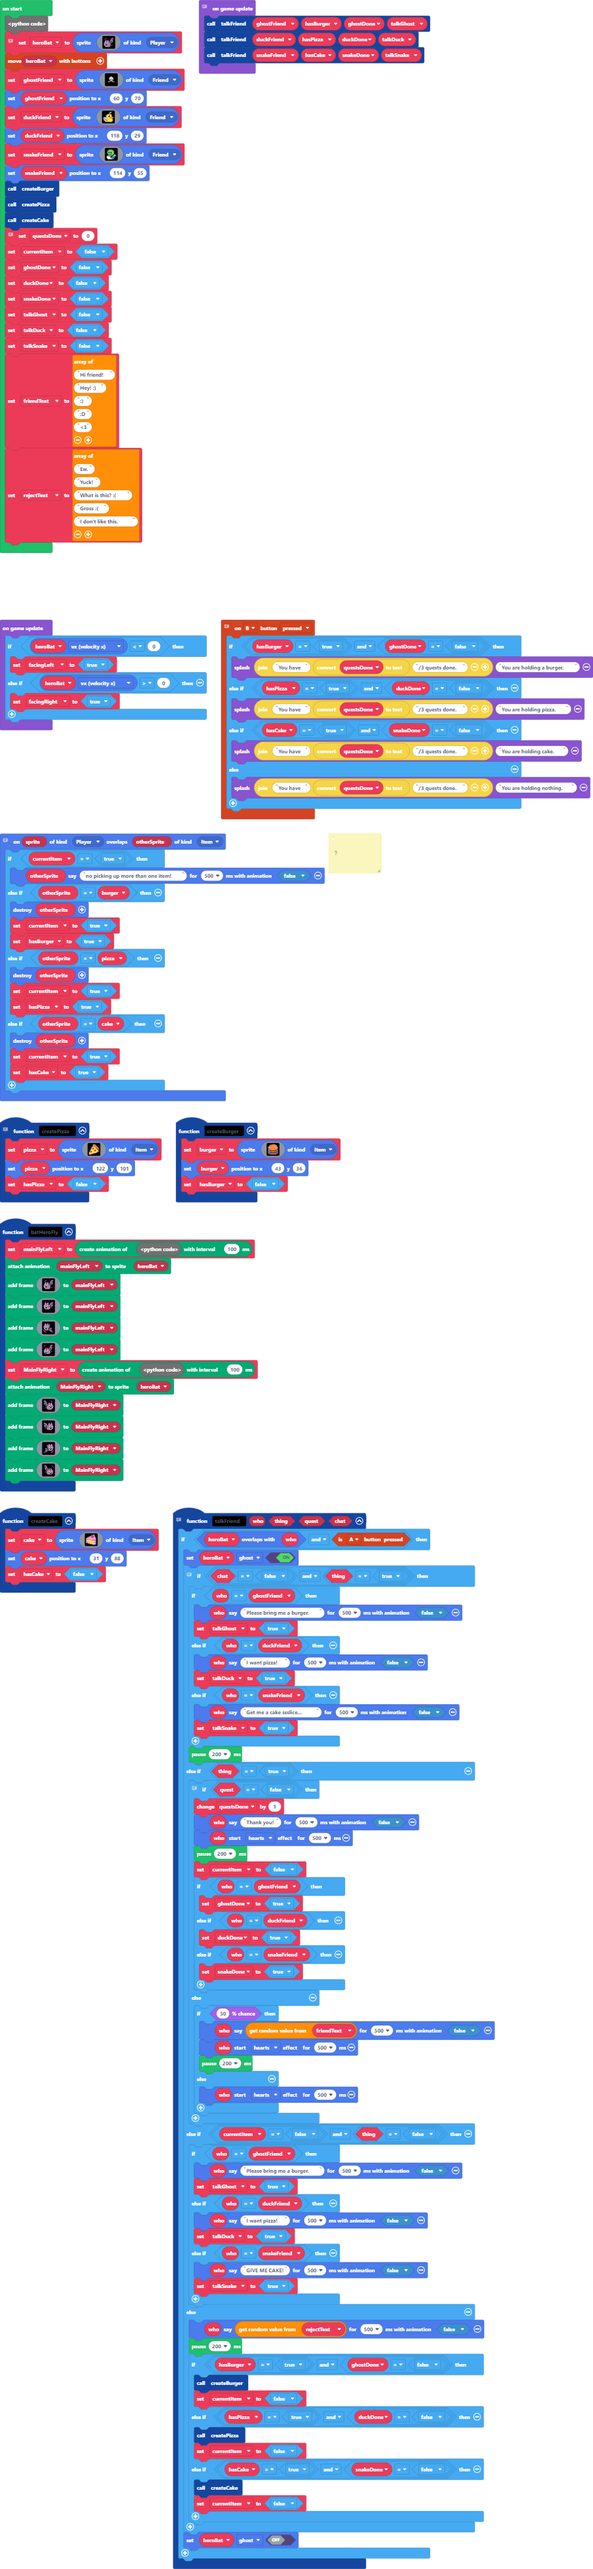
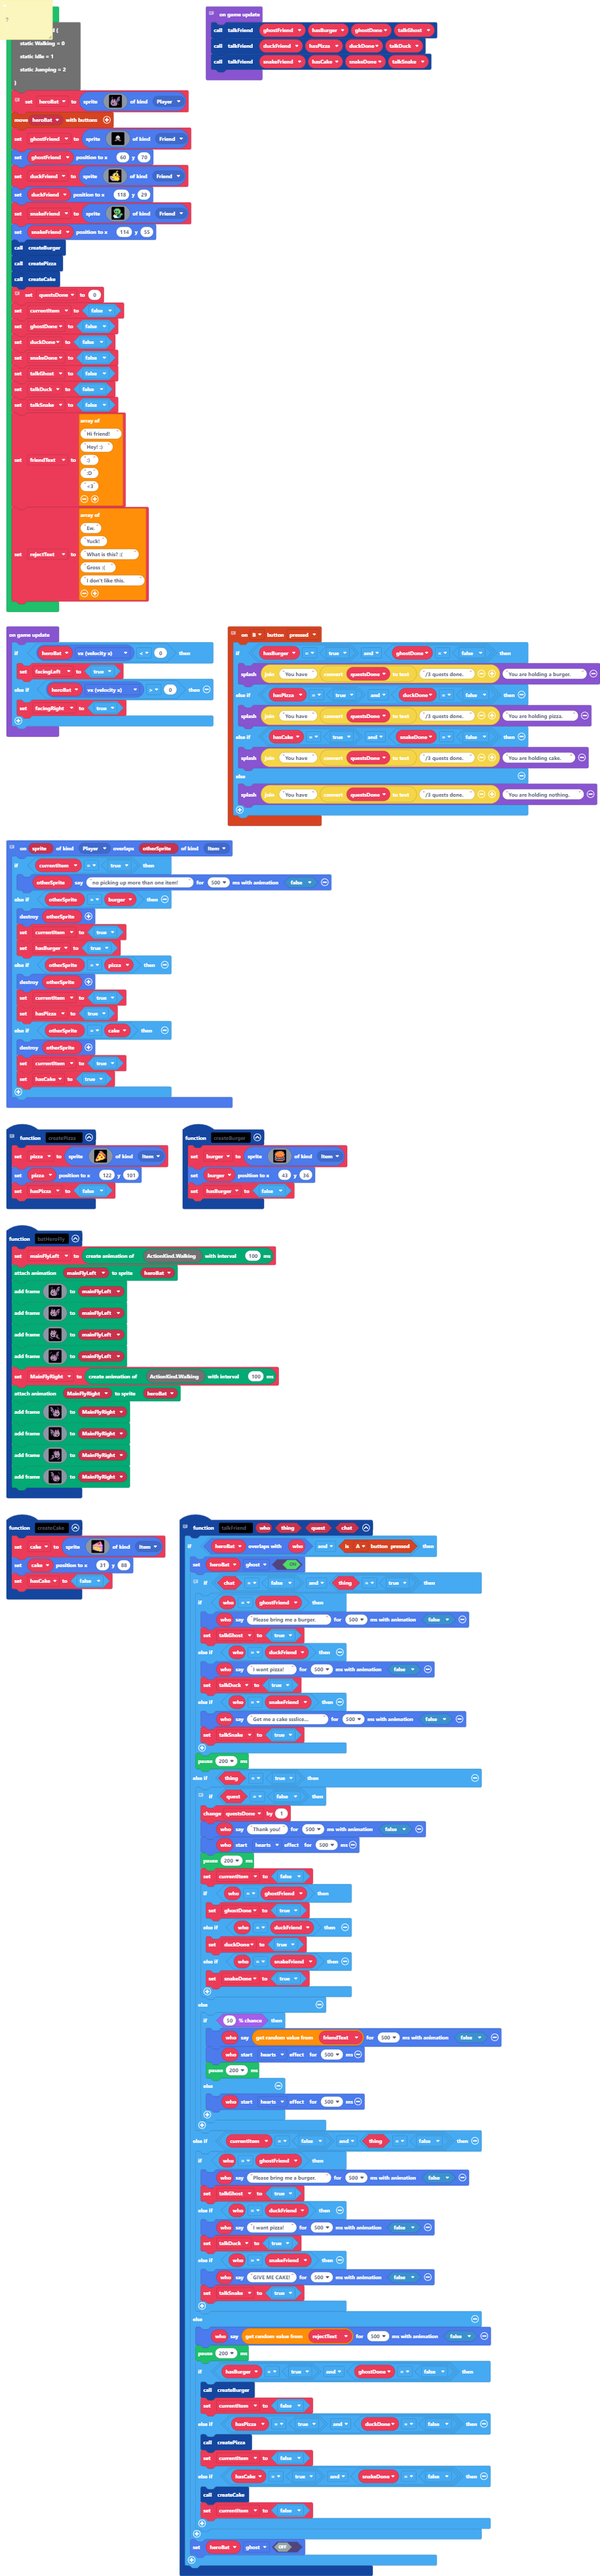
Update pxt.json, main.blocks, main.ts, tilemap.g.jres, tilemap.g.ts

diff --git a/tilemap.g.ts b/tilemap.g.ts
@@ -1,0 +1,39 @@
+// Auto-generated code. Do not edit.
+namespace myTiles {
+    //% fixedInstance jres blockIdentity=images._tile
+    export const transparency16 = image.ofBuffer(hex``);
+
+    helpers._registerFactory("tilemap", function(name: string) {
+        switch(helpers.stringTrim(name)) {
+            case "level1":
+            case "level1":return tiles.createTilemap(hex`1000100000000000000000000000000000000000000000000000000000000000000000000000000000000000000000000000000000000000000000000000000000000000000000000000000000000000000000000000000000000000000000000000000000000000000000000000000000000000000000000000000000000000000000000000000000000000000000000000000000000000000000000000000000000000000000000000000000000000000000000000000000000000000000000000000000000000000000000000000000000000000000000000000000000000000000000000000000000000000000000000000000000000000000000000000000000000`, img`
+. . . . . . . . . . . . . . . . 
+. . . . . . . . . . . . . . . . 
+. . . . . . . . . . . . . . . . 
+. . . . . . . . . . . . . . . . 
+. . . . . . . . . . . . . . . . 
+. . . . . . . . . . . . . . . . 
+. . . . . . . . . . . . . . . . 
+. . . . . . . . . . . . . . . . 
+. . . . . . . . . . . . . . . . 
+. . . . . . . . . . . . . . . . 
+. . . . . . . . . . . . . . . . 
+. . . . . . . . . . . . . . . . 
+. . . . . . . . . . . . . . . . 
+. . . . . . . . . . . . . . . . 
+. . . . . . . . . . . . . . . . 
+. . . . . . . . . . . . . . . . 
+`, [myTiles.transparency16], TileScale.Sixteen);
+        }
+        return null;
+    })
+
+    helpers._registerFactory("tile", function(name: string) {
+        switch(helpers.stringTrim(name)) {
+            case "transparency16":return transparency16;
+        }
+        return null;
+    })
+
+}
+// Auto-generated code. Do not edit.

diff --git a/main.ts b/main.ts
@@ -2,9 +2,6 @@ namespace SpriteKind {
     export const Friend = SpriteKind.create()
     export const Item = SpriteKind.create()
 }
-/**
- * ?
- */
 // picking up items
 sprites.onOverlap(SpriteKind.Player, SpriteKind.Item, function (sprite, otherSprite) {
     if (currentItem == true) {
@@ -325,6 +322,9 @@ function talkFriend (who: Sprite, thing: boolean, quest: boolean, chat: boolean)
         heroBat.setFlag(SpriteFlag.Ghost, false)
     }
 }
+/**
+ * ?
+ */
 let facingRight = false
 let facingLeft = false
 let MainFlyRight: animation.Animation = null
